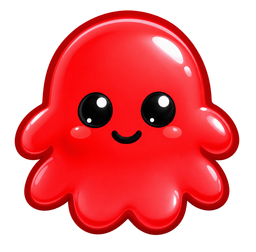
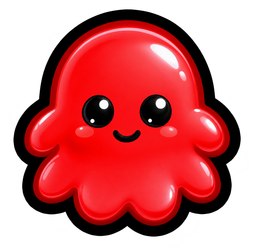
feat(ui): bigger outlined pawns; larger, snappier dice animation
- Pawns: baked a thick black outline into each pawn PNG (sharp, from the
  hi-res design sources) and bumped their on-board size 10% (tile*0.8 ->
  0.88). Baked outline avoids the iPad filter lag a runtime drop-shadow
  on moving pawns would cause.
- Dice animation: scale the spinning Lottie up (1.55) so it matches the
  size of the landed dice face, and play it 15% faster (setSpeed 1.15).

187 tests, type-check, lint pass.

diff --git a/src/state/slices/boardSlice.ts b/src/state/slices/boardSlice.ts
@@ -22,9 +22,10 @@ const reducers = {
   resizeBoard: (state: TBoardState, action: PayloadAction<number>) => {
     state.boardSideLength = action.payload;
     state.boardTileSize = action.payload / NUMBER_OF_BLOCKS_IN_ONE_ROW;
-    state.tokenHeight = (action.payload / NUMBER_OF_BLOCKS_IN_ONE_ROW) * 0.8;
+    // Pawns are 0.88 of a tile (was 0.8 — bumped 10% for a bolder look).
+    state.tokenHeight = (action.payload / NUMBER_OF_BLOCKS_IN_ONE_ROW) * 0.88;
     state.tokenWidth =
-      (action.payload / NUMBER_OF_BLOCKS_IN_ONE_ROW) * 0.8 * TOKEN_WIDTH_HEIGHT_RATIO;
+      (action.payload / NUMBER_OF_BLOCKS_IN_ONE_ROW) * 0.88 * TOKEN_WIDTH_HEIGHT_RATIO;
   },
   clearBoardState: () => initialState,
 };

diff --git a/tests/slices/board.test.ts b/tests/slices/board.test.ts
@@ -12,7 +12,7 @@ describe('Test board slice reducers', () => {
     it('should update board and token dimensions when board side length is set', () => {
       const newBoardSideLength = 550;
       const newBoardBlockSize = newBoardSideLength / NUMBER_OF_BLOCKS_IN_ONE_ROW;
-      const newTokenHeight = newBoardBlockSize * 0.8;
+      const newTokenHeight = newBoardBlockSize * 0.88;
       const newTokenWidth = newTokenHeight * TOKEN_WIDTH_HEIGHT_RATIO;
       const newState = boardReducer(initialState, resizeBoard(newBoardSideLength));
 

diff --git a/src/pages/Play/components/Dice/Dice.tsx b/src/pages/Play/components/Dice/Dice.tsx
@@ -147,7 +147,7 @@ export default function Dice({ colour, playerName, profileId }: Props) {
               </button>
             ) : showDiceFace ? (
               isPlaceholderShowing ? (
-                <DiceSpinner className={styles.dice} />
+                <DiceSpinner className={styles.spinner} />
               ) : (
                 <span className={styles.dice}>
                   <img src={getDiceImage(diceNumber)} alt="Dice" aria-hidden="true" />

diff --git a/src/pages/Play/components/Dice/Dice.module.css b/src/pages/Play/components/Dice/Dice.module.css
@@ -103,6 +103,13 @@
   cursor: pointer;
 }
 
+/* The Lottie's die sits with padding inside its 300x300 frame, so scale the
+   spinner up to roughly match the size of the landed dice face. */
+.spinner {
+  transform: scale(1.55);
+  transform-origin: center;
+}
+
 /* Active player: gentle glow + pulse on the whole slot to invite a tap. */
 .slot-active {
   animation: pulse 1.1s ease-in-out infinite;

diff --git a/src/pages/Play/components/Dice/DiceSpinner.tsx b/src/pages/Play/components/Dice/DiceSpinner.tsx
@@ -25,6 +25,7 @@ export function DiceSpinner({ className }: Props) {
       autoplay: true,
       animationData,
     });
+    anim.setSpeed(1.15); // 15% snappier spin
     return () => anim.destroy();
   }, []);
 
